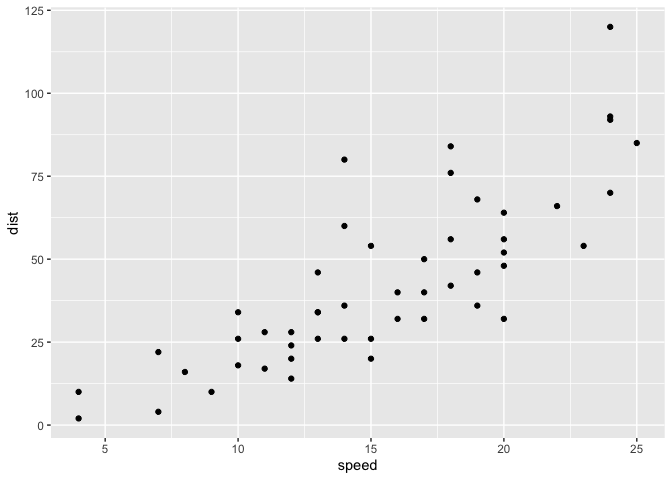
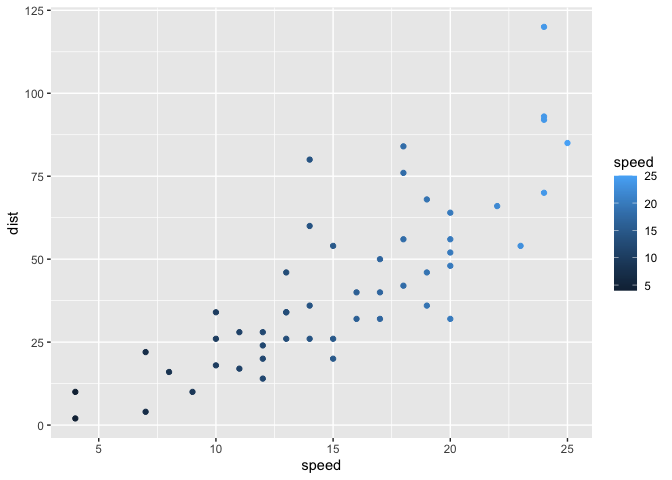
again

diff --git a/README.md b/README.md
@@ -8,8 +8,8 @@
 <!-- badges: end -->
 
 The goal of ggquiet is to be able to reveal components of a fully built
-up plot. The strategy is to set elements to fully transparent, and then
-‘turn on’ the element by changing the transparency to opaque.
+up plot – quietly. The strategy is to set elements to fully transparent,
+and then ‘turn on’ the element by changing the transparency to opaque.
 
 “Quiet” refers to two things. If you simply build up a ggplot you will
 get “noisiness” in that the plot space will bounce around to adjust for
@@ -48,7 +48,8 @@ library(ggquiet)
 ggplot(data = cars) +
   aes(x = speed) +
   aes(y = dist) +
-  geom_point()
+  geom_point() +
+  aes(color = speed) 
 ```
 
 <img src="man/figures/README-example-1.png" width="100%" />
@@ -60,3 +61,15 @@ last_plot() +
 ```
 
 <img src="man/figures/README-example-2.png" width="100%" />
+
+``` r
+
+ggplot(data = cars) +
+  aes(x = speed) +
+  aes(y = dist) +
+  geom_blank() +
+  theme_quiet() +
+  ggquiet:::x_axis_adjust(color = "grey35", alpha = 1)
+```
+
+<img src="man/figures/README-example-3.png" width="100%" />
